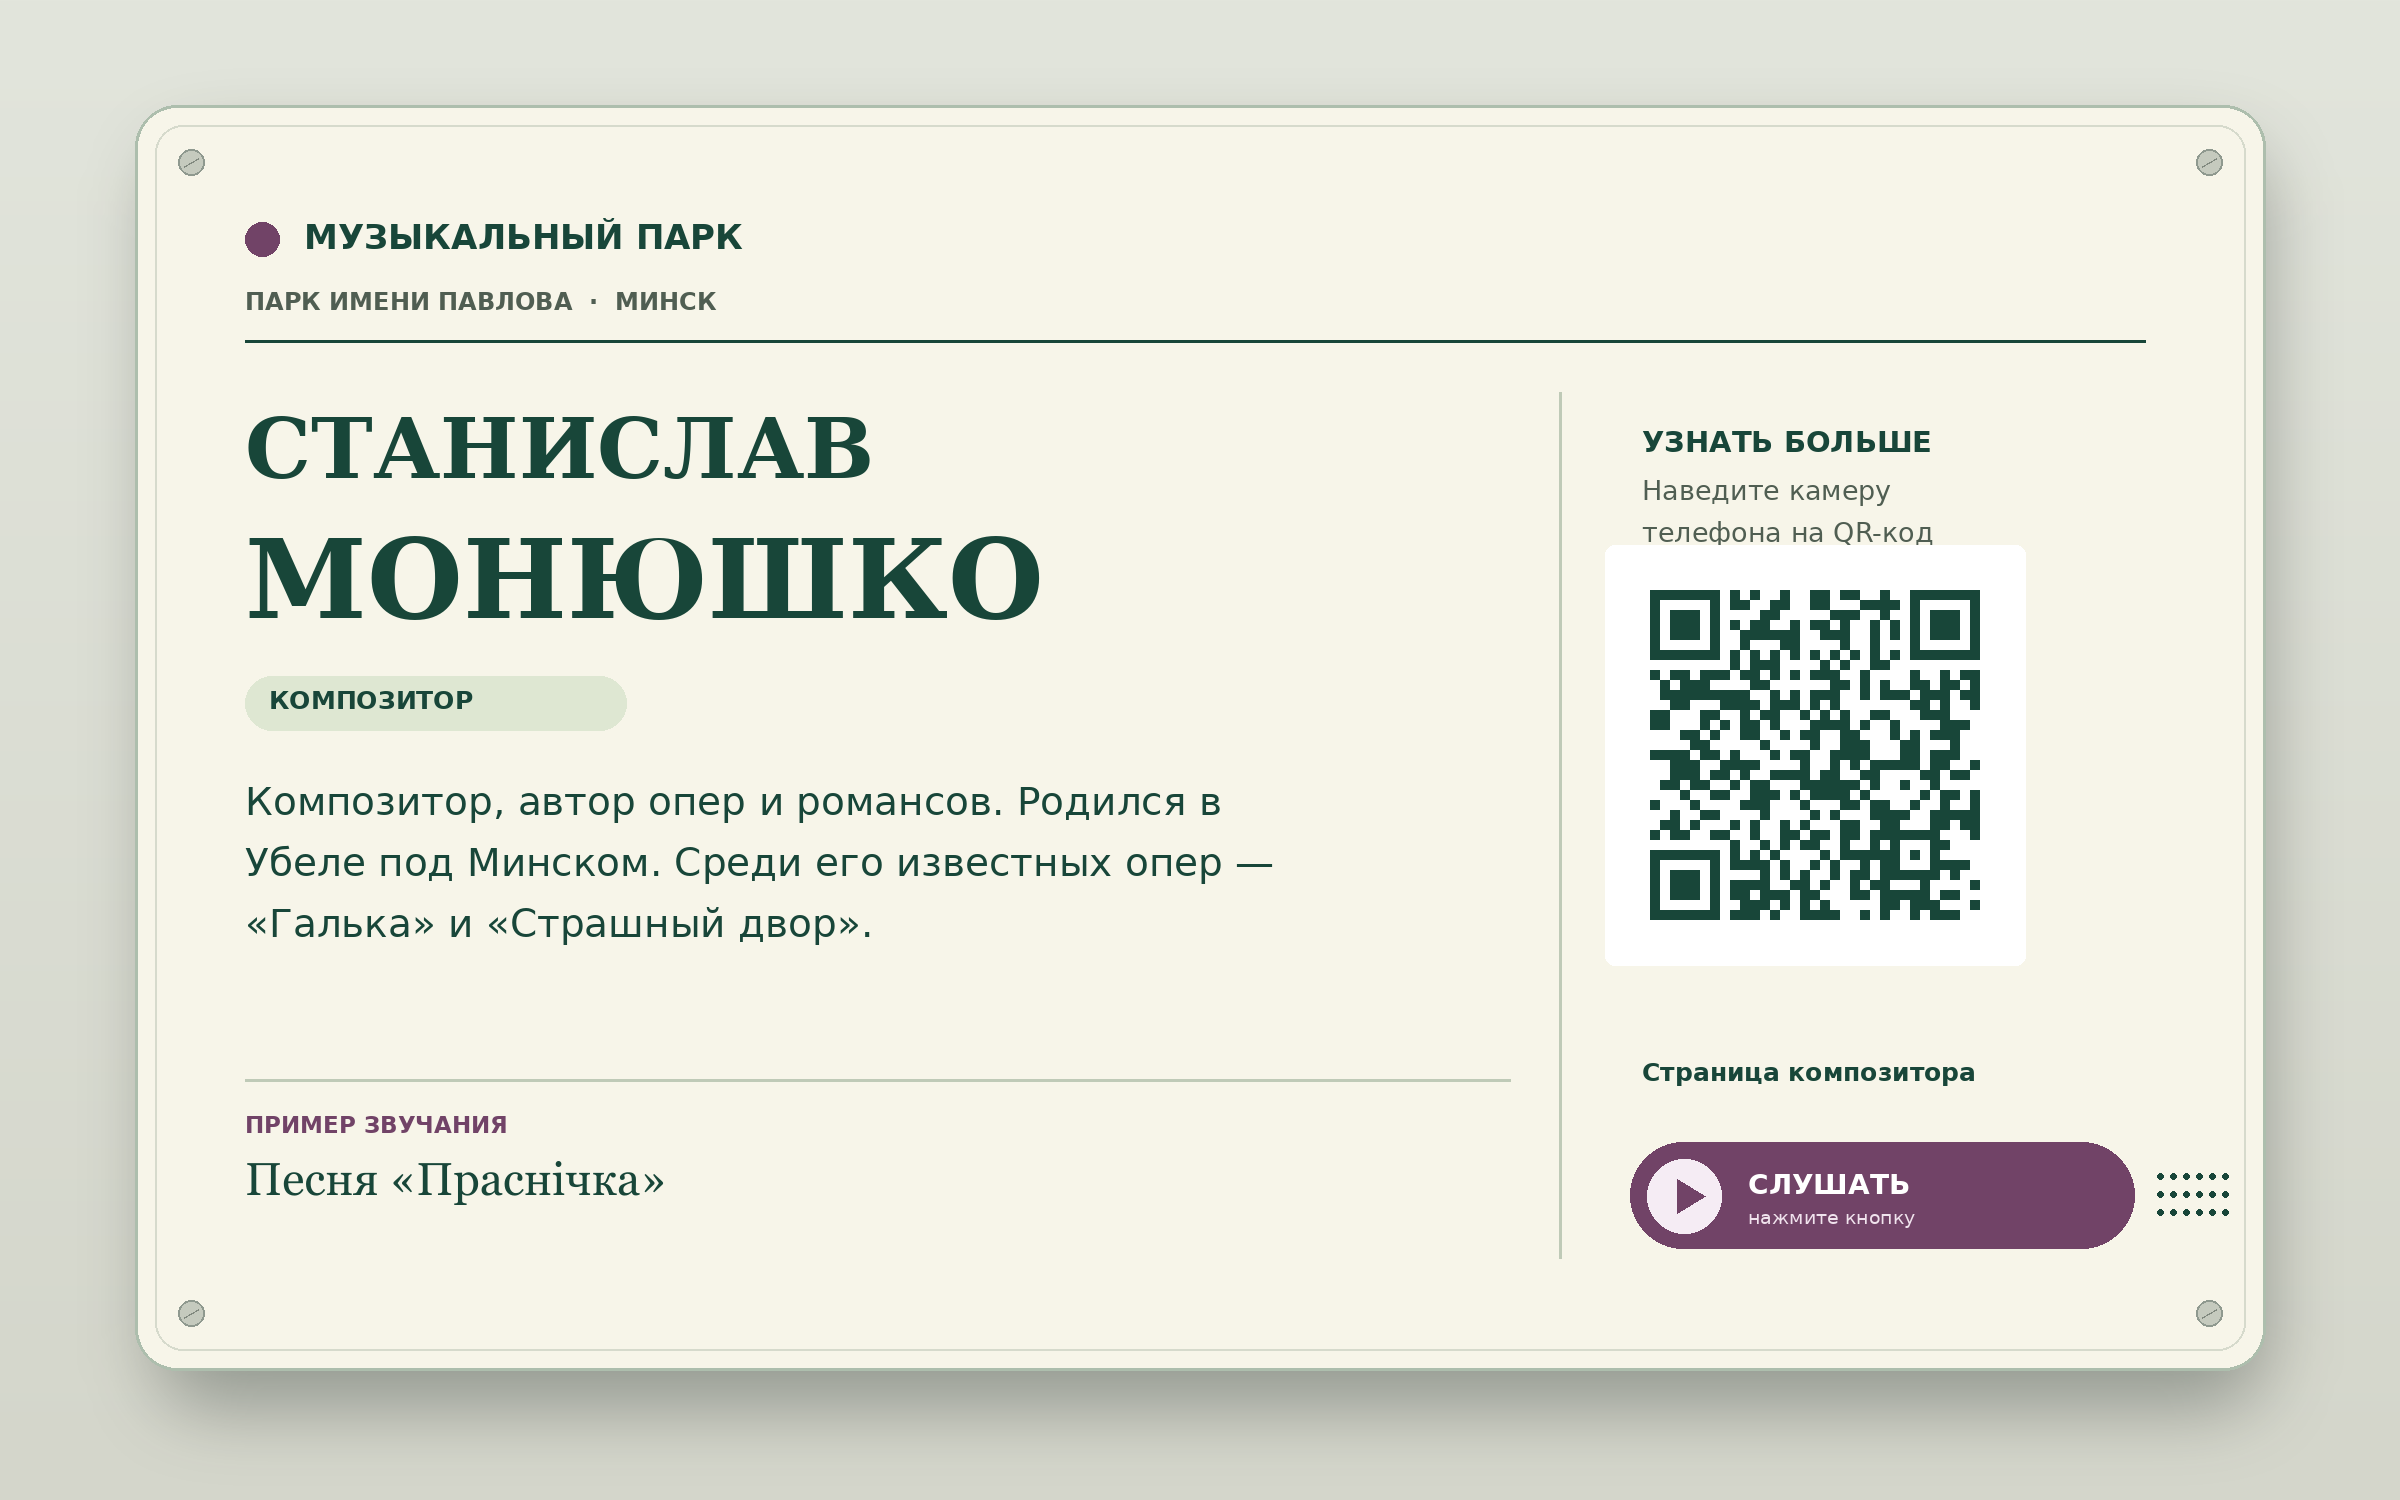
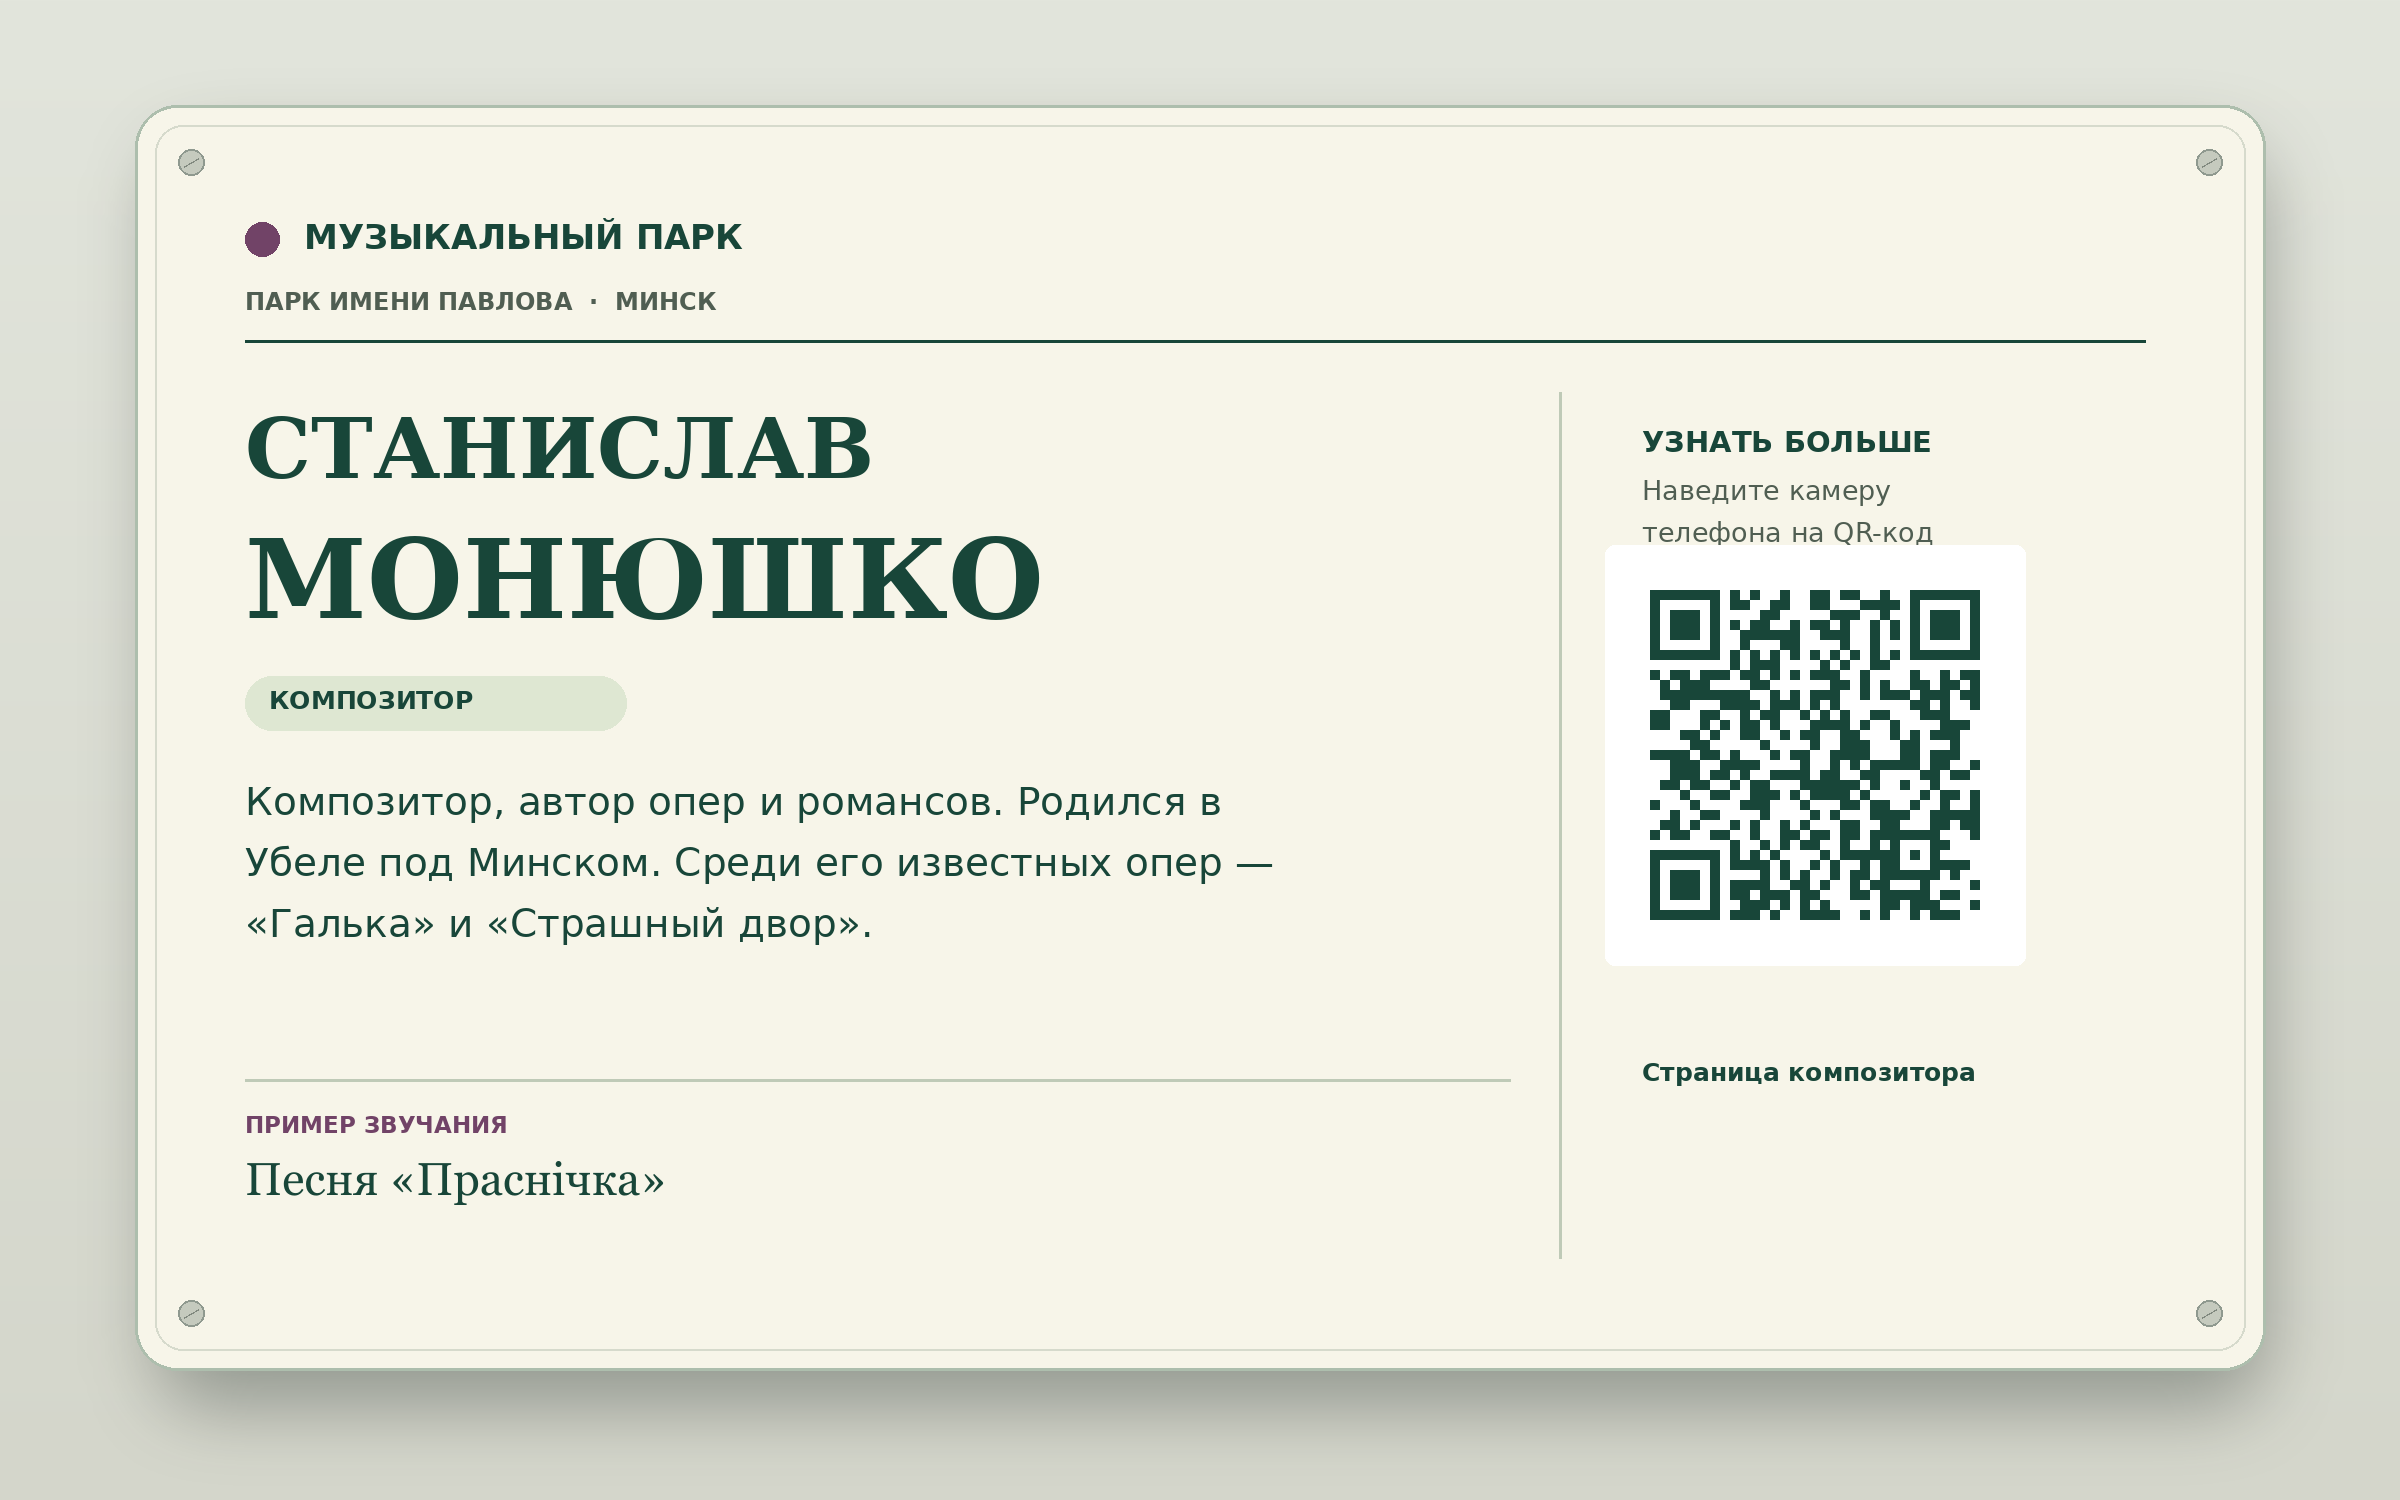
Перенести кнопку и отверстия для звука на постамент

Changed region(s): [[0.6562, 0.736, 0.9062, 0.8587]]

diff --git a/index.html b/index.html
@@ -30,22 +30,22 @@
 <section id="idea" class="wrap section">
   <div class="split intro">
     <div><p class="eyebrow purple">Идея проекта</p><h2>Музыка во время<br>прогулки</h2></div>
-    <div class="intro-text"><p>Предлагаем разместить вдоль прогулочных дорожек вокруг водной части парка имени Павлова бюсты композиторов, связанных с музыкальной культурой Беларуси.</p><p>Рядом с каждым бюстом установят информационную табличку с кратким рассказом о композиторе и QR-кодом для открытия страницы о нём на мобильном устройстве. При нажатии на кнопку у бюста запись его произведения зазвучит из встроенного динамика.</p></div>
+    <div class="intro-text"><p>Предлагаем разместить вдоль прогулочных дорожек вокруг водной части парка имени Павлова бюсты композиторов, связанных с музыкальной культурой Беларуси.</p><p>Рядом с каждым бюстом установят информационную табличку с кратким рассказом о композиторе и QR-кодом для открытия страницы о нём на мобильном устройстве. Кнопка прослушивания будет на барельефе на лицевой стороне постамента, на котором стоит бюст. Звук встроенного динамика будет выходить через отверстия прямо под кнопкой.</p></div>
   </div>
   <div class="steps">
     <article><span class="step-icon" aria-hidden="true">◎</span><h3>Бюст</h3><p>Остановка на маршруте, посвящённая одному композитору.</p></article>
     <article><span class="step-icon" aria-hidden="true">≡</span><h3>Табличка</h3><p>Имя, краткая биография и QR-код со ссылкой на страницу композитора.</p></article>
-    <article><span class="step-icon" aria-hidden="true">♫</span><h3>Музыка</h3><p>Нажмите кнопку у бюста, чтобы услышать запись произведения через встроенный динамик.</p></article>
+    <article><span class="step-icon" aria-hidden="true">♫</span><h3>Музыка</h3><p>Нажмите кнопку на барельефе постамента. Звук идёт через отверстия прямо под кнопкой.</p></article>
   </div>
   <figure class="bust-example">
     <h3>Пример бюста в парке</h3>
-    <img src="bust-moniuszko.webp" alt="Визуализация бронзового бюста Станислава Монюшко у воды с отдельной информационной табличкой, кнопкой прослушивания и динамиком" width="1536" height="1024" loading="lazy">
-    <figcaption>Визуализация размещения бюста Станислава Монюшко рядом с информационной табличкой.</figcaption>
+    <img src="bust-moniuszko-audio-pedestal.webp" alt="Бюст Станислава Монюшко на постаменте с кнопкой на лицевом барельефе и отверстиями для звука прямо под кнопкой. Рядом стоит информационная табличка с QR-кодом." width="1536" height="1024" loading="lazy">
+    <figcaption>Кнопка прослушивания и отверстия для звука встроены в лицевой барельеф постамента под бюстом Монюшко.</figcaption>
   </figure>
   <figure class="plaque-example">
     <h3>Пример информационной таблички</h3>
-    <a class="plaque-image" href="plaque-moniuszko.png?v=moniuszko-prasnichka-20261116" target="_blank" rel="noopener" aria-label="Открыть макет таблички Станислава Монюшко в полном размере">
-      <img src="plaque-moniuszko.png?v=moniuszko-prasnichka-20261116" alt="Макет таблички Станислава Монюшко с биографией, QR-кодом и кнопкой прослушивания песни «Праснічка»" width="2400" height="1500" loading="lazy">
+    <a class="plaque-image" href="plaque-moniuszko.png?v=pedestal-audio-20261116" target="_blank" rel="noopener" aria-label="Открыть макет таблички Станислава Монюшко в полном размере">
+      <img src="plaque-moniuszko.png?v=pedestal-audio-20261116" alt="Макет таблички Станислава Монюшко с биографией, QR-кодом и названием песни «Праснічка»" width="2400" height="1500" loading="lazy">
     </a>
     <figcaption>Макет таблички Станислава Монюшко. <span class="plaque-mobile-hint">Листайте макет по горизонтали.</span> <a href="#composer-moniuszko">Открыть карточку композитора ↗</a></figcaption>
   </figure>
